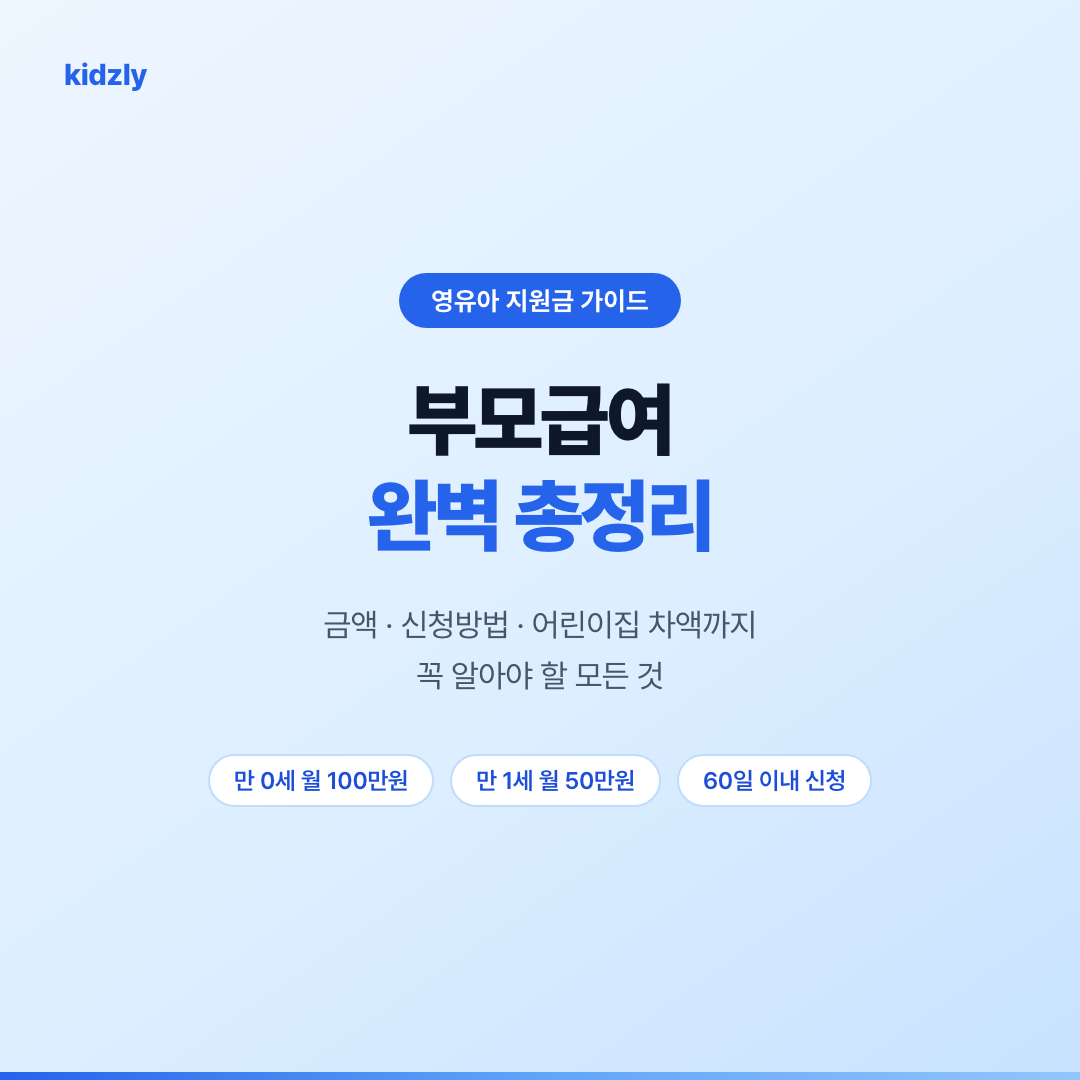
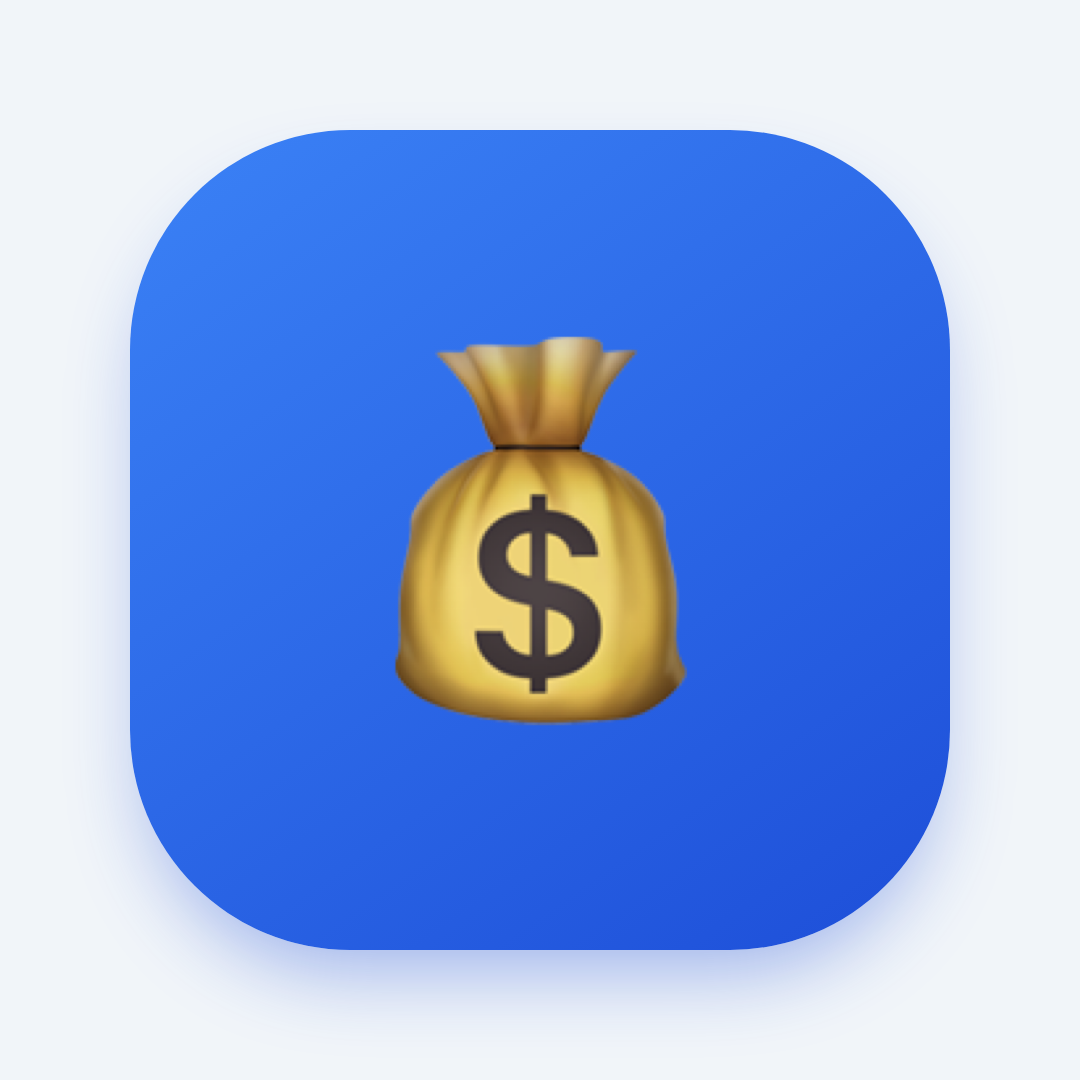
design: 썸네일 앱 아이콘 스타일(시안 B)로 변경
리스트 노출 크기(96~112px)에서 텍스트 기반 썸네일의 시선 집중력이
낮다는 피드백에 따라, 그라디언트 칩 + 대표 이모지 스타일로 전환하고
기존 발행 아티클 3건의 썸네일을 재생성했다.

diff --git a/.claude/skills/content-creator/references/image-html-template.md b/.claude/skills/content-creator/references/image-html-template.md
@@ -46,47 +46,42 @@
 
 ## 이미지 유형별 레이아웃 패턴
 
-### 유형 1: 썸네일 (타이틀 카드)
+### 유형 1: 썸네일 (앱 아이콘 스타일)
 
-주제를 한눈에 전달하는 대표 이미지. 텍스트 + 배경색 + 브랜드 요소.
+**실제 노출 위치는 리스트의 96~112px 정사각형이다.** 이 크기에서는 어떤 텍스트도 읽히지 않으므로, 텍스트 없이 **포인트 컬러 + 대표 이모지**의 대비만으로 아티클을 구분시킨다. (1080px 원본에서 예뻐 보이는 디자인이 아니라, 96px로 축소했을 때 구분되는 디자인이 기준이다.)
 
 ```html
-<div class="canvas" style="background: linear-gradient(135deg, #EEF4FF 0%, #D6E8FF 100%);">
-  <!-- 브랜드 로고 영역 (선택) -->
-  <div style="position: absolute; top: 60px; left: 60px;
-              font-size: 28px; font-weight: 700; color: #3B82F6; letter-spacing: -0.5px;">
-    kidzly
-  </div>
-
-  <!-- 메인 콘텐츠 -->
-  <div style="position: absolute; top: 50%; left: 50%; transform: translate(-50%, -50%);
-              width: 900px; text-align: center;">
-    <!-- 카테고리 뱃지 -->
-    <div style="display: inline-block; background: #3B82F6; color: #fff;
-                font-size: 24px; font-weight: 600; padding: 10px 28px;
-                border-radius: 100px; margin-bottom: 40px; letter-spacing: 0.5px;">
-      어린이집 가이드
-    </div>
-
-    <!-- 메인 타이틀 -->
-    <h1 style="font-size: 72px; font-weight: 800; color: #1E293B;
-               line-height: 1.25; letter-spacing: -2px; margin-bottom: 32px;">
-      어린이집 적응 기간,<br>부모가 알아야 할<br>5가지
-    </h1>
-
-    <!-- 서브 텍스트 -->
-    <p style="font-size: 32px; font-weight: 400; color: #64748B; letter-spacing: -0.5px;">
-      우리 아이의 등원을 편하게 만드는 방법
-    </p>
-  </div>
-
-  <!-- 하단 장식 -->
-  <div style="position: absolute; bottom: 60px; left: 60px; right: 60px;
-              height: 4px; background: linear-gradient(90deg, #3B82F6, #60A5FA);
-              border-radius: 2px;">
+<div class="canvas" style="background: #F1F5F9; display: flex;
+            align-items: center; justify-content: center;">
+  <div style="width: 820px; height: 820px; border-radius: 220px;
+              background: linear-gradient(145deg, {포인트컬러-밝음} 0%, {포인트컬러-어두움} 100%);
+              box-shadow: 0 40px 80px -20px {포인트컬러-어두움}66;
+              display: flex; align-items: center; justify-content: center;">
+    <div style="font-size: 420px; line-height: 1;">{대표 이모지}</div>
   </div>
 </div>
 ```
+
+**색상·이모지 선택 규칙**
+- 아티클의 핵심 주제 키워드 하나를 골라 대표 이모지를 정한다 (예: 집=🏠, 이용권/선물=🎁, 아이=👶, 급여/돈=💰, 서류=📋, 일정=📅, 병원=🏥, 책=📚)
+- 같은 카테고리(예: "영유아 지원금") 안에서도 아티클마다 색을 다르게 배정한다 — 목표는 리스트에서 나란히 봤을 때 전부 다른 색으로 보이는 것
+- 이 레이어에는 절대 텍스트를 넣지 않는다 (96px에서 읽히지 않음)
+- 이모지 폰트 크기는 항상 칩(820px) 대비 약 51%(420px)로 고정 — 더 작으면 리스트에서 존재감이 사라짐
+
+**포인트 컬러 팔레트** (그라디언트 밝은색 → 어두운색, 아티클마다 순환 배정)
+
+| 이름 | 밝은색 | 어두운색 |
+|------|--------|----------|
+| 앰버 | `#F59E0B` | `#B45309` |
+| 바이올렛 | `#8B5CF6` | `#6D28D9` |
+| 에메랄드 | `#10B981` | `#047857` |
+| 블루 | `#3B82F6` | `#1D4ED8` |
+| 로즈 | `#F43F5E` | `#BE123C` |
+| 틸 | `#14B8A6` | `#0F766E` |
+| 오렌지 | `#F97316` | `#C2410C` |
+| 인디고 | `#6366F1` | `#4338CA` |
+
+> 유형 2·3(인포그래픽, 강조 카드)은 블로그 본문 안에서 1080px 그대로 크게 노출되므로 텍스트 기반 레이아웃을 그대로 사용한다. 텍스트 축소 문제는 리스트 썸네일(유형 1)에만 해당한다.
 
 ---
 

diff --git a/CLAUDE.md b/CLAUDE.md
@@ -219,6 +219,7 @@ apps/web/domain/{name}/
 | 2026-06-28 | 예상 읽기 시간·카테고리·태그 메타, 3초 룰, 한 문단 3~4줄, 핵심 포인트 callout, 관련 포스트 추천, 이미지 alt 텍스트 추가 | agents/seo-writer.md | blog-writer 에이전트 참고 |
 | 2026-06-28 | 출처 검증 체계 전면 도입 — fact-checker 에이전트 추가, researcher 출처 수집 의무화, seo-writer 인라인 출처 표기, integrator 검증 출처 목록 패키지 포함, 오케스트레이터 Phase 4(팩트체크) 추가 | 전체 | 어린이집 부모 대상 글의 사실 관계·출처 신뢰성 강화 |
 | 2026-06-28 | 서브 에이전트·팀원 모델 opus → sonnet (Sonnet 4.6) 변경, 오케스트레이터는 유지 | skills/content-creator/SKILL.md | 비용 최적화 |
+| 2026-07-16 | 썸네일(유형 1) 디자인 변경 — 텍스트 기반 타이틀 카드 → 앱 아이콘 스타일(그라디언트 칩 + 대표 이모지, 텍스트 없음), 포인트 컬러 팔레트 8종 추가. 발행된 4개 아티클 썸네일 재생성 반영 | skills/content-creator/references/image-html-template.md, agents/image-director.md, apps/web/public/blog/*/thumbnail.png | 리스트 노출 크기(96~112px)에서 기존 텍스트 기반 썸네일이 안 읽히고 시선 집중력이 낮다는 사용자 피드백 |
 
 ---
 

diff --git a/.claude/agents/image-director.md b/.claude/agents/image-director.md
@@ -32,7 +32,7 @@ SEO 작가(seo-writer)와 팀을 이루어 작업하며, 섹션별 이미지를 
 - 배경색과 텍스트 명도 대비(contrast ratio) 4.5:1 이상을 유지한다
 
 ### 이미지 유형 선택 기준
-- **썸네일 카드**: 글의 제목·주제를 시각화. 그라디언트 배경 + 타이틀 텍스트
+- **썸네일 카드**: 리스트 96~112px로 축소 노출됨. 텍스트 없이 포인트 컬러 + 대표 이모지로만 구분 (텍스트는 이 크기에서 읽히지 않음)
 - **인포그래픽(리스트형)**: 체크리스트, 순서, 팁 나열
 - **강조 카드**: 핵심 수치·통계·인용문을 크게 강조
 
